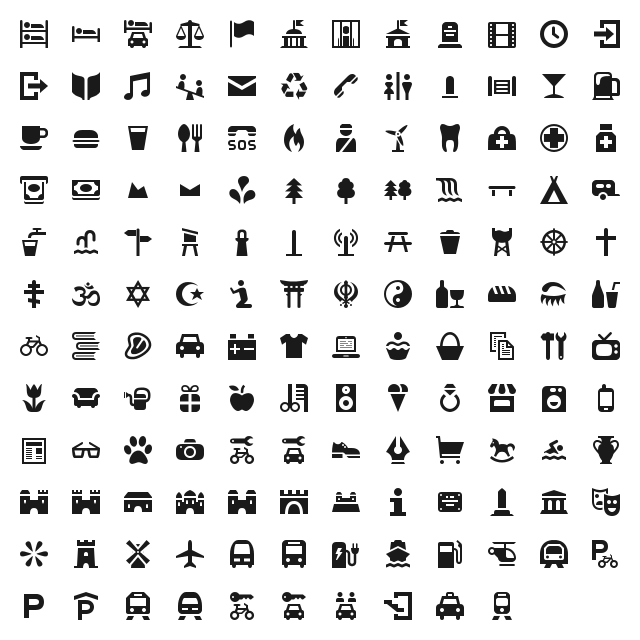
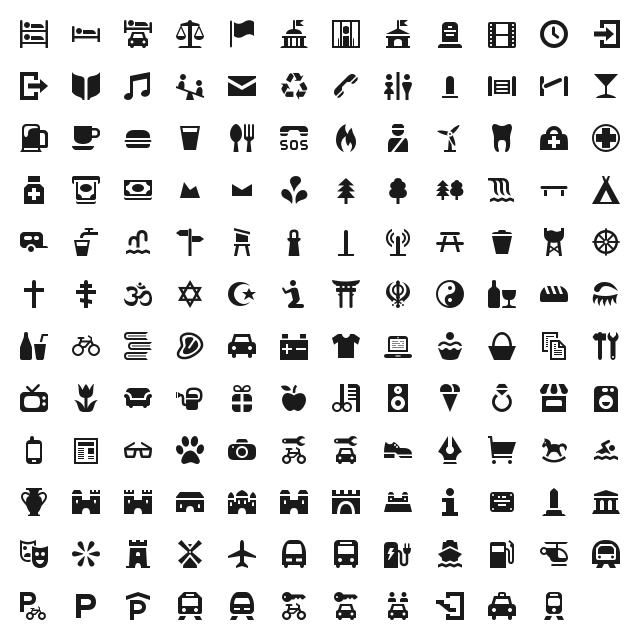
added lift gate

diff --git a/font/osmic-preview.html b/font/osmic-preview.html
@@ -239,6 +239,7 @@
 .oc-kiosk:before,
 .oc-laundry:before,
 .oc-library:before,
+.oc-lift-gate:before,
 .oc-lighthouse:before,
 .oc-mast:before,
 .oc-mast-communications:before,
@@ -395,6 +396,7 @@
 .oc-kiosk:before { content: "\f13a"; }
 .oc-laundry:before { content: "\f186"; }
 .oc-library:before { content: "\f13b"; }
+.oc-lift-gate:before { content: "\f190"; }
 .oc-lighthouse:before { content: "\f13c"; }
 .oc-mast:before { content: "\f13d"; }
 .oc-mast-communications:before { content: "\f13e"; }
@@ -473,7 +475,7 @@
   <body class="characters-off">
     <div id="page" class="container">
       <header>
-        <h1>osmic contains 142 glyphs:</h1>
+        <h1>osmic contains 143 glyphs:</h1>
         <a onclick="toggleCharacters(); return false;" href="#">Toggle Preview Characters</a>
       </header>
 
@@ -1502,6 +1504,19 @@
         <div class="usage">
           <input class="class" type="text" readonly="readonly" onClick="this.select();" value=".oc-library" />
           <input class="point" type="text" readonly="readonly" onClick="this.select();" value="&amp;#xf13b;" />
+        </div>
+      </div>
+      
+      <div class="glyph">
+        <div class="preview-glyphs">
+          <span class="step size-12"><span class="letters">Pp</span><i id="oc-lift-gate" class="oc-lift-gate"></i></span><span class="step size-14"><span class="letters">Pp</span><i id="oc-lift-gate" class="oc-lift-gate"></i></span><span class="step size-16"><span class="letters">Pp</span><i id="oc-lift-gate" class="oc-lift-gate"></i></span><span class="step size-18"><span class="letters">Pp</span><i id="oc-lift-gate" class="oc-lift-gate"></i></span><span class="step size-21"><span class="letters">Pp</span><i id="oc-lift-gate" class="oc-lift-gate"></i></span><span class="step size-24"><span class="letters">Pp</span><i id="oc-lift-gate" class="oc-lift-gate"></i></span><span class="step size-36"><span class="letters">Pp</span><i id="oc-lift-gate" class="oc-lift-gate"></i></span><span class="step size-48"><span class="letters">Pp</span><i id="oc-lift-gate" class="oc-lift-gate"></i></span><span class="step size-60"><span class="letters">Pp</span><i id="oc-lift-gate" class="oc-lift-gate"></i></span><span class="step size-72"><span class="letters">Pp</span><i id="oc-lift-gate" class="oc-lift-gate"></i></span>
+        </div>
+        <div class="preview-scale">
+          <span class="step">12</span><span class="step">14</span><span class="step">16</span><span class="step">18</span><span class="step">21</span><span class="step">24</span><span class="step">36</span><span class="step">48</span><span class="step">60</span><span class="step">72</span>
+        </div>
+        <div class="usage">
+          <input class="class" type="text" readonly="readonly" onClick="this.select();" value=".oc-lift-gate" />
+          <input class="point" type="text" readonly="readonly" onClick="this.select();" value="&amp;#xf190;" />
         </div>
       </div>
       

diff --git a/font/osmic.css b/font/osmic.css
@@ -102,6 +102,7 @@
 .oc-kiosk:before,
 .oc-laundry:before,
 .oc-library:before,
+.oc-lift-gate:before,
 .oc-lighthouse:before,
 .oc-mast:before,
 .oc-mast-communications:before,
@@ -258,6 +259,7 @@
 .oc-kiosk:before { content: "\f13a"; }
 .oc-laundry:before { content: "\f186"; }
 .oc-library:before { content: "\f13b"; }
+.oc-lift-gate:before { content: "\f190"; }
 .oc-lighthouse:before { content: "\f13c"; }
 .oc-mast:before { content: "\f13d"; }
 .oc-mast-communications:before { content: "\f13e"; }
